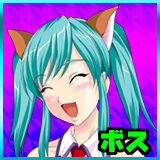
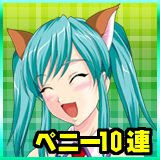
10連

diff --git a/app/Controller/GachasController.php b/app/Controller/GachasController.php
@@ -18,10 +18,13 @@ class GachasController extends ApiController {
     public $uses = array('User', 'SnsUser', 'Gacha', 'GachaProb', 'UserCard', 'Card', 'UserGachaLog', 'PaymentLog', 'UserItem', 'UserCollect', 'UserPresentBox', 'UserQueryString');
 
     // 10連ガチャID
-    public $gacha10 = array( GACHA_10_ID );
+    public $gacha10 = array( GACHA_10_ID, GACHA_MONEY_10_ID );
 
     // 無課金ガチャID
-    public $gachaFree = array( GACHA_MONEY_ID );
+    public $gachaFree = array( GACHA_MONEY_ID , GACHA_MONEY_10_ID );
+
+    // 課金ガチャID
+    public $gachaPoint = array( GACHA_PREMIUM_ID , GACHA_10_ID, GACHA_SOZAI_ID );
 
 
     /**
@@ -32,9 +35,20 @@ class GachasController extends ApiController {
      */
 	public function index() {
 
+        $kind = empty($this->params['kind']) ? 1 : $this->params['kind'];
+
+        if (1 == $kind) {
+            // 有料
+            $gachaIds = $this->gachaPoint;
+
+        } else {
+            // 無料
+            $gachaIds = $this->gachaFree;
+        }
+
         $tNum = $this->UserItem->hasPremiumGachaTiket($this->userId);
 
-        $list = $this->Gacha->getList();
+        $list = $this->Gacha->getList($gachaIds);
         foreach ($list as &$val) {
             if ($val['gacha_id'] == GACHA_10_ID ) {
                 $ret = $this->UserGachaLog->isGacha10($this->userId);
@@ -49,6 +63,7 @@ class GachasController extends ApiController {
         }
 
         $this->set('list', $list);
+        $this->set('kind', $kind);
         $this->set('tNum', $tNum);
         $this->set('queryString', $queryString);
 	}
@@ -252,7 +267,7 @@ class GachasController extends ApiController {
             }
         } else {
 
-            if ( 0 == $gachaFree ) {
+            if ( 0 == $gachaFree && 0 == $gacha10 ) {
                 // チケット減算
                 $tNum--;
 
@@ -277,86 +292,161 @@ class GachasController extends ApiController {
 
         // 以下の処理はチケットで回した場合と無課金ガチャの場合に通る
 
-        $data = $this->Common->doLot($probList);
+        // １０連以外
+        if ( empty($gacha10) ) {
 
-        $cardData = $this->Card->getCardData($data['card_id']);
+            $data = $this->Common->doLot($probList);
 
-        try {
+            $cardData = $this->Card->getCardData($data['card_id']);
 
-            // カード所持最大未満の場合はカードテーブルへ
-            if (empty($hasMaxFlg)) {
-                $values = array(
-                    'user_id' => $this->userId
-                ,   'card_id' => $cardData['card_id']
-                ,   'hp' => $cardData['card_hp']
-                ,   'hp_max' => $cardData['card_hp']
-                ,   'atk' => $cardData['card_atk']
-                ,   'def' => $cardData['card_def']
-                );
-                $this->UserCard->save($values);
-            } else {
-                // カード所持最大の場合はプレゼントボックスへ
-                $values = array();
-                $values[] = array(
-                    $this->userId
-                ,   KIND_CARD
-                ,   $cardData['card_id']
-                ,   1
-                ,   $gachaData['gacha_name'] . 'で入手'
-                );
-                $this->UserPresentBox->registPBox($values);
-            }
+            try {
 
-            // 無料ガチャの場合はゴールド減算
-            if (in_array($gachaId, $this->gachaFree)) {
-                $money = $this->userParam['money'] - $gachaData['point'];
-                $values = array(
-                    'user_id' => $this->userId
-                ,   'money'   => $money 
-                );
-                $this->UserParam->save($values);
-            } else {
-                if ($gachaData['gacha_id'] == GACHA_SOZAI_ID) {
-                    $itemId = 14;
+                // カード所持最大未満の場合はカードテーブルへ
+                if (empty($hasMaxFlg)) {
+                    $values = array(
+                        'user_id' => $this->userId
+                    ,   'card_id' => $cardData['card_id']
+                    ,   'hp' => $cardData['card_hp']
+                    ,   'hp_max' => $cardData['card_hp']
+                    ,   'atk' => $cardData['card_atk']
+                    ,   'def' => $cardData['card_def']
+                    );
+                    $this->UserCard->save($values);
                 } else {
-                    $itemId = 6;
+                    // カード所持最大の場合はプレゼントボックスへ
+                    $values = array();
+                    $values[] = array(
+                        $this->userId
+                    ,   KIND_CARD
+                    ,   $cardData['card_id']
+                    ,   1
+                    ,   $gachaData['gacha_name'] . 'で入手'
+                    );
+                    $this->UserPresentBox->registPBox($values);
                 }
-                // 有料ガチャの場合はおまけを受け取りボックスへ
-                $values = array();
-                $values[] = array(
-                    $this->userId
-                ,   KIND_ITEM
-                ,   $itemId 
-                ,   1
-                ,   $gachaData['gacha_name'] . 'のおまけ'
+
+                // 無料ガチャの場合はゴールド減算
+                if (in_array($gachaId, $this->gachaFree)) {
+                    $money = $this->userParam['money'] - $gachaData['point'];
+                    $values = array(
+                        'user_id' => $this->userId
+                    ,   'money'   => $money 
+                    );
+                    $this->UserParam->save($values);
+                } else {
+                    if ($gachaData['gacha_id'] == GACHA_SOZAI_ID) {
+                        $itemId = 14;
+                    } else {
+                        $itemId = 6;
+                    }
+                    // 有料ガチャの場合はおまけを受け取りボックスへ
+                    $values = array();
+                    $values[] = array(
+                        $this->userId
+                    ,   KIND_ITEM
+                    ,   $itemId 
+                    ,   1
+                    ,   $gachaData['gacha_name'] . 'のおまけ'
+                    );
+                    $this->UserPresentBox->registPBox($values);
+                }
+
+                // ログ記述
+                $values = array(
+                    'user_id' => $this->userId 
+                ,   'gacha_id' => $gachaId
+                ,   'card_id'  => $cardData['card_id']
+                ,   'end_flg'  => 1
                 );
-                $this->UserPresentBox->registPBox($values);
+                $field = array('user_id', 'gacha_id', 'card_id', 'end_flg');
+                $this->UserGachaLog->save($values);
+
+                // コレクション登録
+                $this->UserCollect->initCollect($this->userId, $cardData['card_id']);
+
+                // ログリスト
+                $logList[] = $values;
+
+            } catch (AppException $e) {
+                $this->UserCard->rollback();
+                $this->log($e->errmes);
+                exit;
             }
 
-            // ログ記述
-            $values = array(
-                'user_id' => $this->userId 
-            ,   'gacha_id' => $gachaId
-            ,   'card_id'  => $cardData['card_id']
-            ,   'end_flg'  => 1
-            );
-            $field = array('user_id', 'gacha_id', 'card_id', 'end_flg');
-            $this->UserGachaLog->save($values);
+            $rareLevel = $cardData['rare_level'];
 
-            // コレクション登録
-            $this->UserCollect->initCollect($this->userId, $cardData['card_id']);
+        // 10連
+        } else {
 
-            // ログリスト
-            $logList[] = $values;
+            $rareLevel = 1;
 
-        } catch (AppException $e) {
-            $this->UserCard->rollback();
-            $this->log($e->errmes);
-            exit;
+            // 抽選
+            for ($i = 1; $i <= $num; $i++) {
+                $data = $this->Common->doLot($probList);
+
+                $cardData = $this->Card->getCardData($data['card_id']);
+
+                // ログリスト
+                $logList[] = array(
+                    'user_id'  => $this->userId 
+                ,   'gacha_id' => $gachaId
+                ,   'card_id'  => $cardData['card_id']
+                );
+                $logListRegist[] = array($this->userId, $gachaId, $cardData['card_id'], 1);
+
+                if ($rareLevel < $cardData['rare_level']) {
+                    $rareLevel = $cardData['rare_level'];
+                }
+
+                if (empty($hasMaxFlg)) {
+                    // カードリスト
+                    $values[] = array(
+                        $this->userId
+                    ,   $cardData['card_id']
+                    ,   $cardData['card_hp']
+                    ,   $cardData['card_hp']
+                    ,   $cardData['card_atk']
+                    ,   $cardData['card_def']
+                    );
+                } else {
+
+                    // プレゼントボックスリスト
+                    $values[] = array(
+                        $this->userId
+                    ,   KIND_CARD
+                    ,   $cardData['card_id']
+                    ,   1
+                    ,   $gachaData['gacha_name'] . 'ガチャで入手'
+                    );
+                }
+            }
+
+            try {
+
+                // カード所持最大未満の場合はカードテーブルへ
+                if (empty($hasMaxFlg)) {
+                    $field = array('user_id', 'card_id', 'hp', 'hp_max', 'atk', 'def');
+                    $this->UserCard->insertBulk($field, $values, $ignore = 1);
+                } else {
+                    // カード所持最大の場合はプレゼントボックスへ
+                    $this->UserPresentBox->registPBox($values);
+                }
+
+                $this->UserGachaLog->regist($logListRegist);
+
+                // コレクション登録
+                if (empty($hasMaxFlg)) {
+                    foreach ($logList as $val) {
+                        $this->UserCollect->initCollect($val['user_id'], $val['card_id']);
+                    }
+                }
+
+            } catch (AppException $e) {
+                $this->UserCard->rollback();
+                $this->log($e->errmes);
+                exit;
+            }
         }
-
-        $rareLevel = $cardData['rare_level'];
-
 
         // 演出へ
         $params = array(
@@ -778,7 +868,7 @@ class GachasController extends ApiController {
             if ($one) break;
         }
         $plus = 0;
-        if (GACHA_MONEY_ID != $log[0]['gacha_id']) {
+        if (in_array($log[0]['gacha_id'],$this->gachaPoint)) {
             $plus = 1;
         }
         $this->set('plus', $plus);

diff --git a/app/Model/Gacha.php b/app/Model/Gacha.php
@@ -86,13 +86,15 @@ class Gacha extends AppModel {
      * ガチャ一覧取得
      *
      * @author imanishi
+     * @param array ガチャID
      * @return array $list
      */
-    public function getList() {
+    public function getList($gachaIds) {
 
         $date = date("Y-m-d H:i:s");
         $where = array(
-            'start_time <' => $date
+            'gacha_id' => $gachaIds
+        ,   'start_time <' => $date
         ,   'end_time >' => $date
         );
         $list = $this->getAllFind($where);

diff --git a/app/Model/UserPresentBox.php b/app/Model/UserPresentBox.php
@@ -176,7 +176,7 @@ class UserPresentBox extends AppModel {
      * @param array  $userParam   ユーザステータス    
      * @return array [0]受け取り後登録テーブルのID [1]カード所持最大フラグ
      */
-    public function getPresent($userId, $data, &$userParam = array()) { 
+    public function getPresent($userId, $data, $userParam = array()) { 
 
         $id = 0;
         $hasMaxFlg = 0;

diff --git a/app/Model/UserGachaLog.php b/app/Model/UserGachaLog.php
@@ -131,4 +131,13 @@ class UserGachaLog extends AppModel {
         $ret = $this->field('id', $where);
         return empty($ret) ? false : true;
     }
+
+    /**
+     * ガチャログ登録
+     *
+     */
+    public function regist ($values) {
+        $field = array('user_id', 'gacha_id', 'card_id', 'end_flg');
+        return $this->insertBulk($field, $values);
+    }
 }

diff --git a/app/webroot/css/main.css.php b/app/webroot/css/main.css.php
@@ -221,6 +221,13 @@ a:hover {
 
 
 /** ガチャ */
+/** 選択 */
+.selectGachaKind {
+    top: -60px;
+    height: 30px;
+    position: relative;
+}
+
 .gachaImg {
     left:5px;
     top:10px;
@@ -873,6 +880,7 @@ input.btn_submit {
     text-align:center;
     float: left; 
     width:320px;    
+    height:30px;
 }
 
 .tabs label.labelOff {

diff --git a/app/Config/const.php b/app/Config/const.php
@@ -273,6 +273,8 @@ define("GACHA_10_ID", 2 );
 define("GACHA_MONEY_ID", 3 );
 // 強化素材ガチャID
 define("GACHA_SOZAI_ID", 4 );
+// 無課金10連ガチャID
+define("GACHA_MONEY_10_ID", 5 );
 
 
 /**
